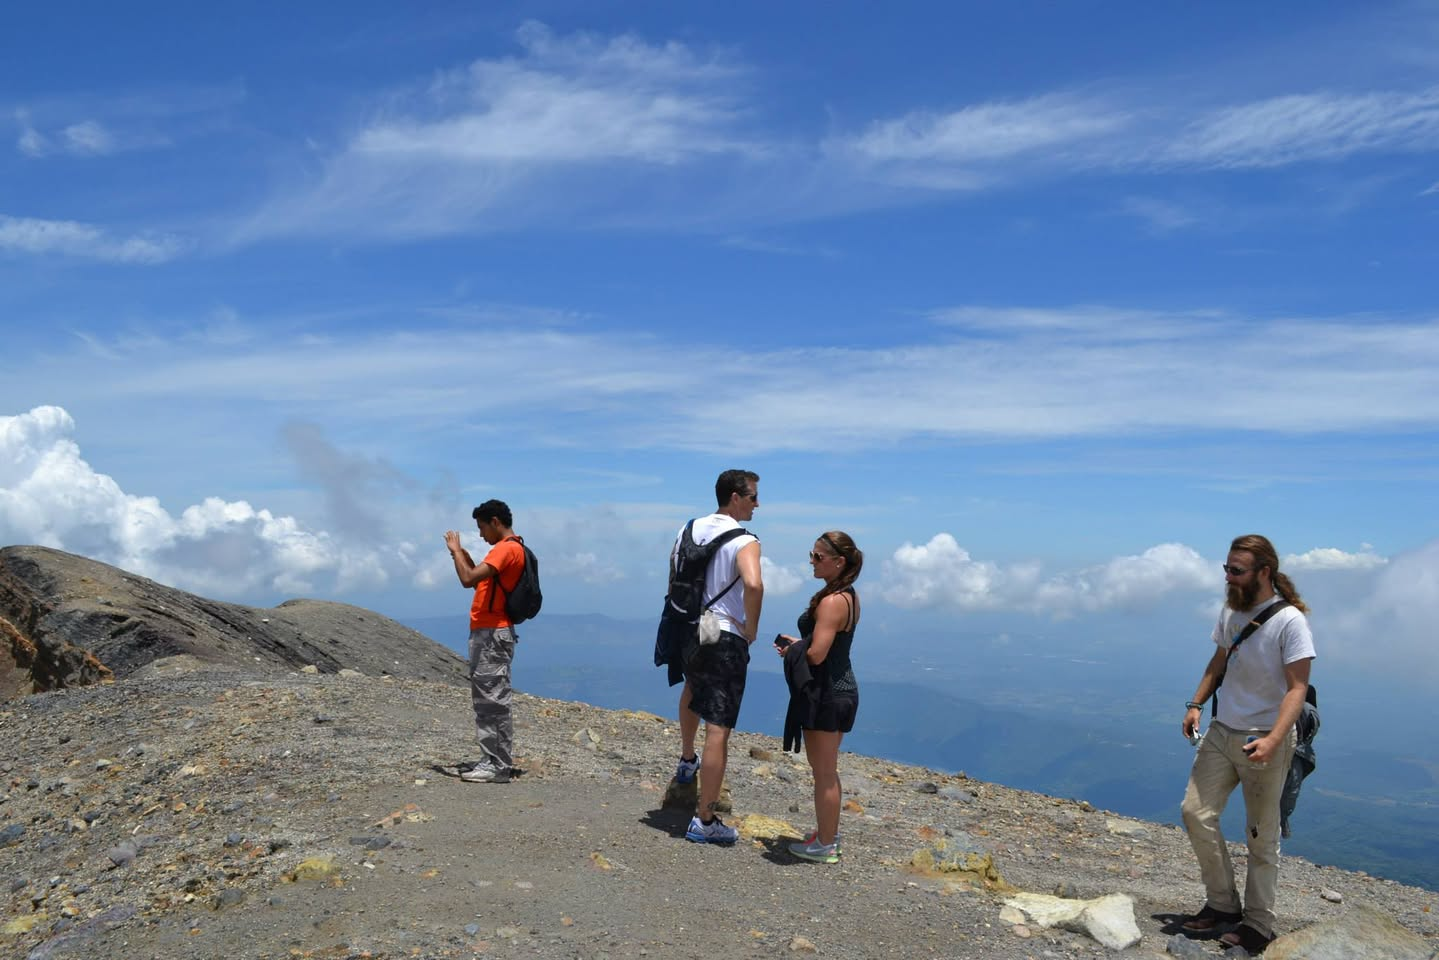
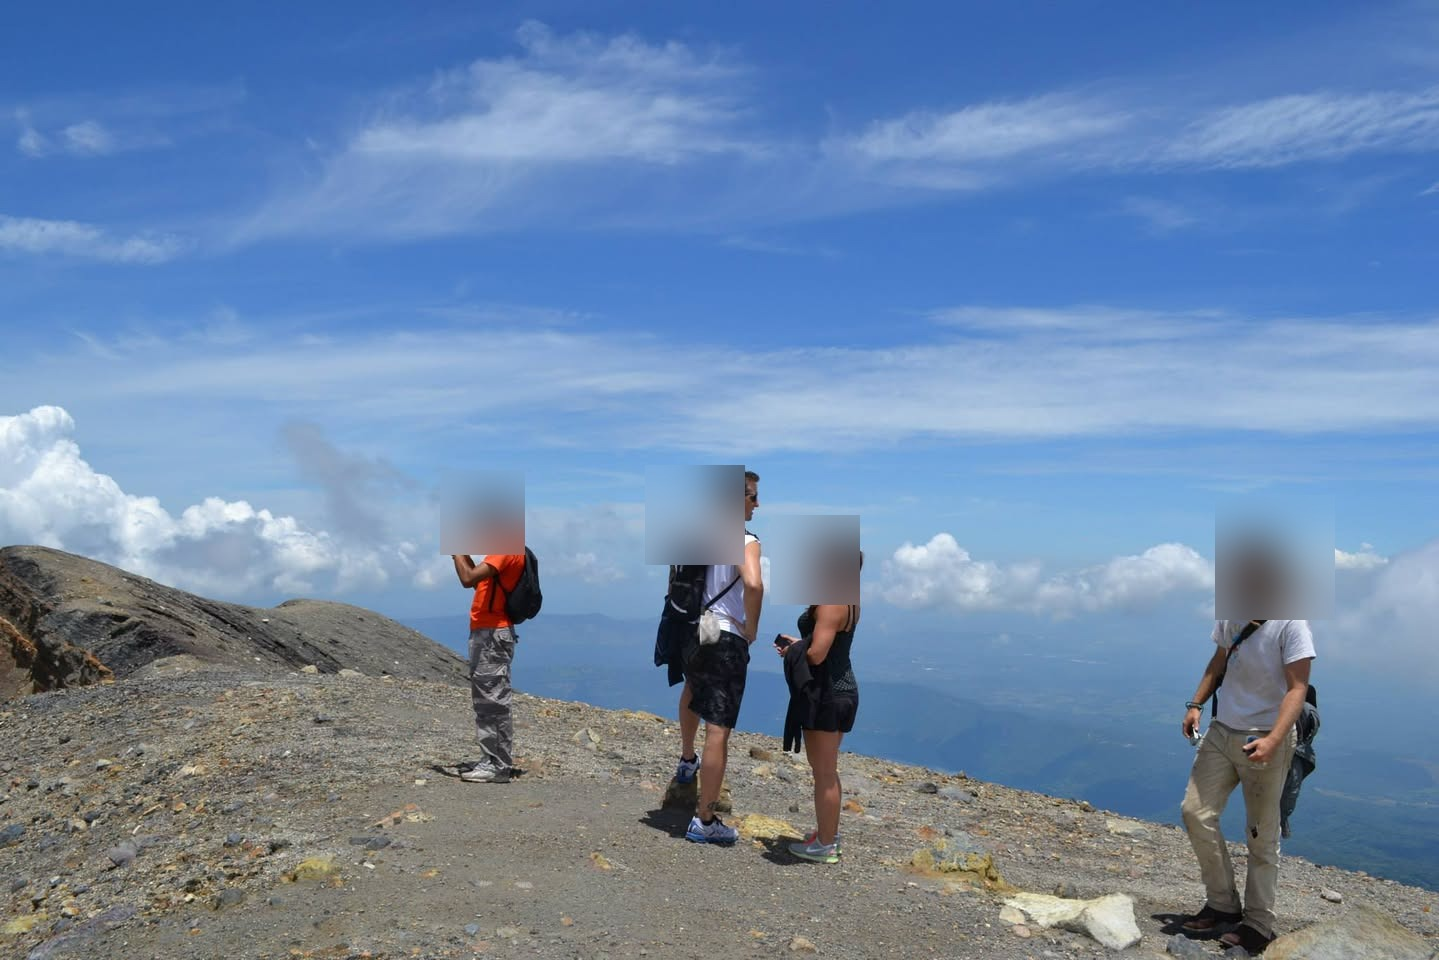
feat: プライバシーポリシーに肖像権・著作権・アフィリエイト・免責事項を整備
- 「肖像権について」「アフィリエイトプログラムについて」を新規章として追加
- 著作権・免責事項の文言を一般的なフォーマットに差し替え
- 全12章に再構成、制定日・最終改定日を 2026-04-26 に
- el-salvador-volcan/volcan-3.jpg の人物4名の顔をガウシアンブラーで匿名化

diff --git a/privacy.html b/privacy.html
@@ -337,25 +337,35 @@
   <p>また、記事内には Google マップへのリンクなど外部サイトへのリンクが含まれます。リンク先での情報の取扱いについては、各サイトのプライバシーポリシーをご確認ください。</p>
 
   <h2>7. 著作権について</h2>
-  <p>当サイトに掲載されている文章・写真・その他コンテンツの著作権は、特に明記がない限り当サイト運営者に帰属します。引用は出典を明示の上、著作権法の範囲内で行ってください。無断転載・無断利用は固くお断りします。</p>
+  <p>当サイトに掲載している文章、写真、画像等の著作権は、当サイト運営者または各権利所有者に帰属します。</p>
+  <p>無断転載、無断使用を禁じます。引用を行う場合は、著作権法上認められた範囲で、出典を明示してください。</p>
 
-  <h2>8. 免責事項</h2>
-  <p>当サイトに掲載される情報は、執筆時点での個人の体験・調査に基づくものであり、その正確性・完全性・最新性を保証するものではありません。掲載情報を利用したことによって生じたいかなる損害についても、当サイト運営者は責任を負いかねます。</p>
-  <p>掲載内容は予告なく変更・削除することがあります。</p>
+  <h2>8. 肖像権について</h2>
+  <p>当サイトに掲載している写真には、旅先で出会った人々の姿が写っている場合があります。掲載にあたっては配慮しておりますが、ご本人または関係者の方で削除・修正をご希望の場合は、お問い合わせ先までご連絡ください。速やかに対応いたします。</p>
 
-  <h2>9. お問い合わせ</h2>
+  <h2>9. アフィリエイトプログラムについて</h2>
+  <p>当サイトは、Amazon.co.jp を宣伝しリンクすることによって紹介料を獲得できる、Amazonアソシエイト・プログラムの参加者です。</p>
+  <p>当サイトでは、記事内にアフィリエイトリンクを掲載する場合があります。利用者が当サイトのリンクを経由して商品・サービスを購入した場合、当サイトが紹介料を受け取ることがあります。</p>
+  <p>なお、掲載している商品・サービスの価格、在庫、仕様等は変更される場合があります。最新の情報は、各販売サイトにてご確認ください。</p>
+
+  <h2>10. 免責事項</h2>
+  <p>当サイトに掲載する情報は、可能な限り正確な内容を掲載するよう努めていますが、正確性、最新性、安全性を保証するものではありません。</p>
+  <p>当サイトの掲載内容によって生じた損害等について、当サイトは一切の責任を負いかねます。</p>
+  <p>また、当サイトからリンクやバナー等によって他サイトへ移動した場合、移動先サイトで提供される情報、サービス等について、当サイトは責任を負いません。</p>
+
+  <h2>11. お問い合わせ</h2>
   <p>本ポリシーに関するお問い合わせ、または取得した情報の開示・訂正・削除のご依頼は、以下までご連絡ください。</p>
   <ul>
     <li>運営者: Camino Libre 運営者</li>
     <li>連絡先: <a href="mailto:info@camino-libre.jp">info@camino-libre.jp</a></li>
   </ul>
 
-  <h2>10. 改定について</h2>
+  <h2>12. 改定について</h2>
   <p>本ポリシーは、法令の変更や運営方針の見直しに応じて、予告なく改定する場合があります。重要な変更を行う場合は、当ページ上で告知します。</p>
 
   <div class="policy-meta">
-    制定日: 2026年4月25日<br>
-    最終改定日: 2026年4月25日
+    制定日: 2026年4月26日<br>
+    最終改定日: 2026年4月26日
   </div>
 
 </main>
